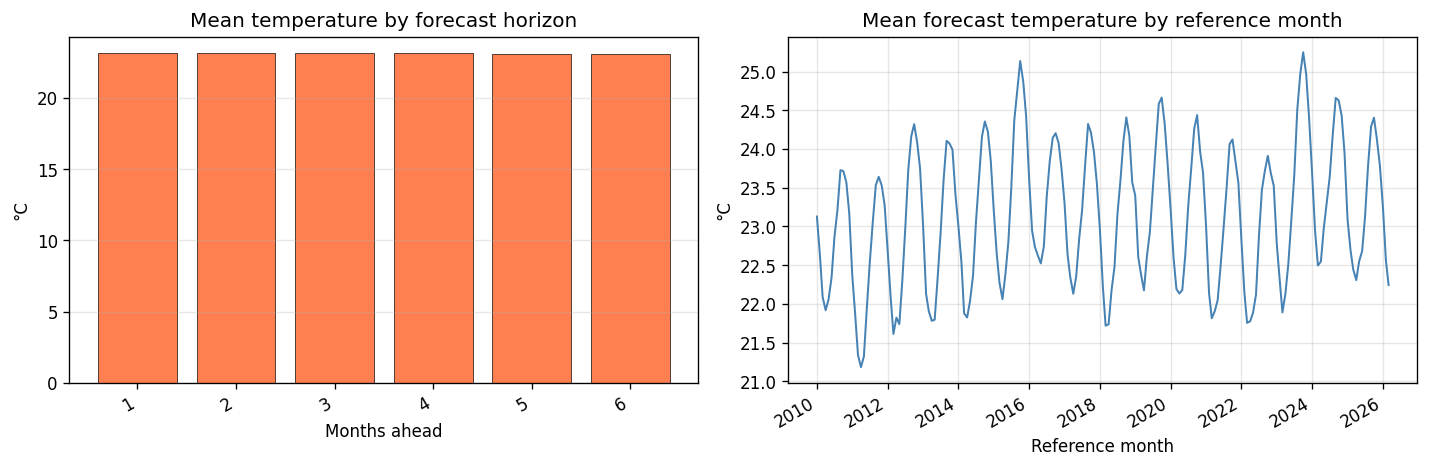
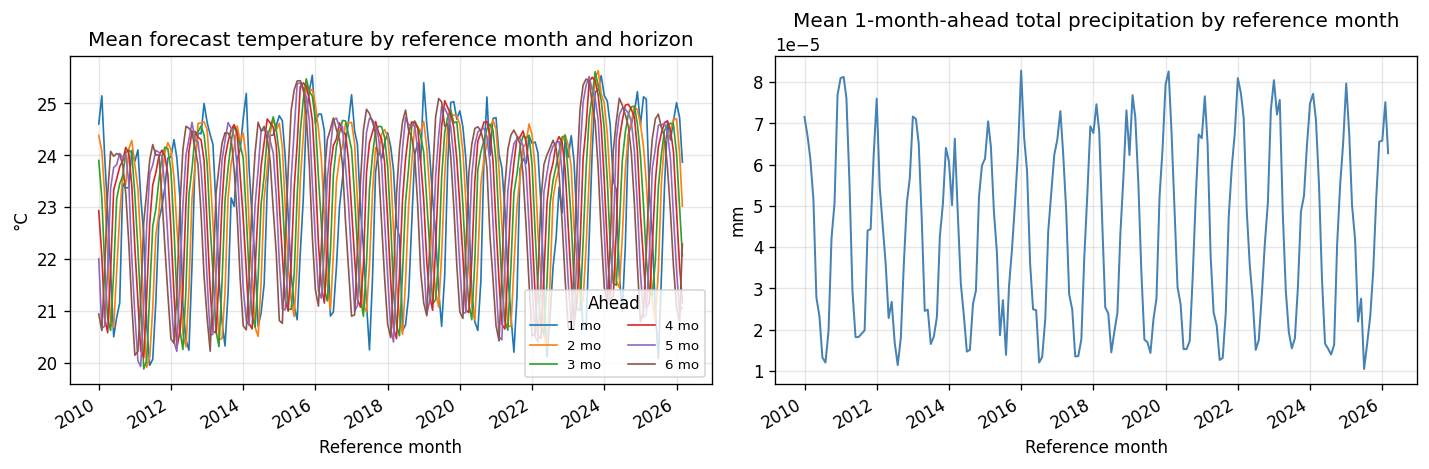
Improve pre-EDA report UX with expandable plots and column tooltips

diff --git a/pre_eda/index.html b/pre_eda/index.html
@@ -39,6 +39,10 @@
       </p>
     </footer>
 
+    <dialog id="plot-lightbox" class="plot-lightbox" aria-label="Expanded plot">
+      <img class="plot-lightbox__img" alt="" decoding="async" />
+    </dialog>
+
     <script src="https://cdn.jsdelivr.net/npm/marked@15.0.7/marked.min.js"></script>
     <script>
       (function () {
@@ -56,6 +60,79 @@
             breaks: false,
           });
           return marked.parse(markdown);
+        }
+
+        function enhanceColumnHovers(root) {
+          var triggers = root.querySelectorAll(".columns-more");
+          for (var i = 0; i < triggers.length; i++) {
+            var listItem = triggers[i].closest("li");
+            if (listItem) {
+              listItem.classList.add("columns-item");
+            }
+          }
+        }
+
+        function enhancePlotImages(root) {
+          var lightbox = document.getElementById("plot-lightbox");
+          if (!lightbox) {
+            return;
+          }
+          var lightboxImage = lightbox.querySelector(".plot-lightbox__img");
+          if (!lightboxImage) {
+            return;
+          }
+
+          function openLightbox(sourceImage) {
+            lightboxImage.src = sourceImage.currentSrc || sourceImage.src;
+            lightboxImage.alt = sourceImage.alt || "Expanded plot";
+            if (typeof lightbox.showModal === "function") {
+              lightbox.showModal();
+            }
+          }
+
+          function closeLightbox() {
+            if (!lightbox.open) {
+              return;
+            }
+            lightbox.close();
+            lightboxImage.removeAttribute("src");
+            lightboxImage.alt = "";
+          }
+
+          if (!lightbox.dataset.bound) {
+            lightbox.dataset.bound = "true";
+            lightbox.addEventListener("click", function (event) {
+              if (event.target === lightbox) {
+                closeLightbox();
+              }
+            });
+            lightboxImage.addEventListener("click", function () {
+              closeLightbox();
+            });
+            lightbox.addEventListener("close", function () {
+              lightboxImage.removeAttribute("src");
+              lightboxImage.alt = "";
+            });
+          }
+
+          var images = root.querySelectorAll("img");
+          for (var i = 0; i < images.length; i++) {
+            var image = images[i];
+            if (image.classList.contains("plot-lightbox__img")) {
+              continue;
+            }
+            image.tabIndex = 0;
+            image.addEventListener("click", function (event) {
+              openLightbox(event.currentTarget);
+            });
+            image.addEventListener("keydown", function (event) {
+              if (event.key !== "Enter" && event.key !== " ") {
+                return;
+              }
+              event.preventDefault();
+              openLightbox(event.currentTarget);
+            });
+          }
         }
 
         function showError(root, message) {
@@ -86,6 +163,8 @@
                 '<p class="page-nav"><a href="../index.html">← home</a></p>' +
                 renderMarkdown(rewriteImagePaths(markdown));
               root.innerHTML = html;
+              enhanceColumnHovers(root);
+              enhancePlotImages(root);
             })
             .catch(function (error) {
               showError(

diff --git a/styles.css b/styles.css
@@ -287,6 +287,47 @@ figure.project-preview {
   padding: 0.45rem;
   background-color: #fff;
   border: 1px solid #000;
+  cursor: zoom-in;
+}
+
+.plot-lightbox {
+  border: none;
+  padding: 1.25rem;
+  margin: 0;
+  width: 100%;
+  max-width: none;
+  height: 100%;
+  max-height: none;
+  background: transparent;
+}
+
+.plot-lightbox::backdrop {
+  background: color-mix(in srgb, var(--fg) 30%, transparent);
+}
+
+.plot-lightbox__img {
+  display: block;
+  width: 90vw;
+  max-width: 90vw;
+  max-height: 90vh;
+  height: auto;
+  margin: auto;
+  padding: 0.45rem;
+  object-fit: contain;
+  object-position: center;
+  background-color: #fff;
+  border: 1px solid #000;
+  cursor: zoom-out;
+}
+
+.plot-lightbox:not([open]) {
+  display: none;
+}
+
+.plot-lightbox[open] {
+  display: flex;
+  align-items: center;
+  justify-content: center;
 }
 
 .markdown-body .page-nav {
@@ -305,4 +346,70 @@ figure.project-preview {
 
 .markdown-body .markdown-error {
   color: #8b1a1a;
+}
+
+.markdown-body li.columns-item {
+  cursor: help;
+}
+
+.markdown-body .columns-more {
+  cursor: help;
+  color: var(--muted);
+  border-bottom: 1px dotted var(--border);
+}
+
+.markdown-body li.columns-item .columns-rest {
+  display: none;
+}
+
+.markdown-body li.columns-item:hover .columns-ellipsis,
+.markdown-body li.columns-item:focus-within .columns-ellipsis {
+  display: none;
+}
+
+.markdown-body li.columns-item:hover .columns-rest,
+.markdown-body li.columns-item:focus-within .columns-rest {
+  display: inline;
+}
+
+.markdown-body .plot-caption,
+.markdown-body em {
+  display: block;
+  margin: -0.5rem 0 1rem;
+  font-style: italic;
+  color: var(--muted);
+}
+
+.markdown-body .plot-tip {
+  position: relative;
+  display: inline;
+  cursor: help;
+  font-style: italic;
+  color: var(--fg);
+  border-bottom: 1px dotted var(--border);
+}
+
+.markdown-body .plot-tip__popup {
+  position: absolute;
+  z-index: 20;
+  left: 0;
+  bottom: calc(100% + 0.35rem);
+  display: none;
+  width: max-content;
+  max-width: min(18rem, 85vw);
+  padding: 0.45rem 0.55rem;
+  font-size: 0.75rem;
+  line-height: 1.4;
+  font-style: normal;
+  font-weight: 400;
+  color: var(--fg);
+  background: var(--bg);
+  border: 1px solid var(--border);
+  box-shadow: 0 2px 8px color-mix(in srgb, var(--fg) 12%, transparent);
+}
+
+.markdown-body .plot-tip:hover .plot-tip__popup,
+.markdown-body .plot-tip:focus .plot-tip__popup,
+.markdown-body .plot-tip:focus-within .plot-tip__popup {
+  display: block;
 }

diff --git a/pre_eda/PRE_EDA.md b/pre_eda/PRE_EDA.md
@@ -1,6 +1,6 @@
 # Pre-EDA — `data_imdc_2026`
 
-Auto-generated overview of IMDC 2026 datasets. Generated at **2026-05-30 00:16 UTC**.
+Auto-generated overview of IMDC 2026 datasets. Generated at **2026-05-30 00:31 UTC**.
 
 Plots were built with `uv run python scripts/generate_pre_eda.py`.
 
@@ -26,28 +26,34 @@ Plots were built with `uv run python scripts/generate_pre_eda.py`.
 
 Weekly probable dengue cases by municipality (SINAN / Infodengue).
 
-- **Columns:** `geocode`, `date`, `casos`, `epiweek`, `uf`, `macroregional_geocode`, `regional_geocode`, `uf_code`, … (+10 more)
+- **Columns:** `geocode`, `date`, `casos`, `epiweek`, `uf`, `macroregional_geocode`, `regional_geocode`, `uf_code`, <span class="columns-more" tabindex="0"><span class="columns-ellipsis">… (+10 more)</span><span class="columns-rest"><code>target_city</code>, <code>train_1</code>, <code>target_1</code>, <code>train_2</code>, <code>target_2</code>, <code>train_3</code>, <code>target_3</code>, <code>train_4</code>, <code>target_4</code>, <code>disease</code></span></span>
 - **Notes:** Includes train/target flags for four validation seasons and target_city marker.
 
 ![dengue.csv.gz](plots/dengue.png)
+
+*National weekly total of probable dengue cases, summed across all municipalities.*
 
 ### `chikungunya.csv.gz`
 
 Weekly probable chikungunya cases by municipality.
 
-- **Columns:** `geocode`, `date`, `casos`, `epiweek`, `uf`, `macroregional_geocode`, `regional_geocode`, `uf_code`, … (+10 more)
+- **Columns:** `geocode`, `date`, `casos`, `epiweek`, `uf`, `macroregional_geocode`, `regional_geocode`, `uf_code`, <span class="columns-more" tabindex="0"><span class="columns-ellipsis">… (+10 more)</span><span class="columns-rest"><code>target_city</code>, <code>train_1</code>, <code>target_1</code>, <code>train_2</code>, <code>target_2</code>, <code>train_3</code>, <code>target_3</code>, <code>train_4</code>, <code>target_4</code>, <code>disease</code></span></span>
 - **Notes:** Same schema as dengue; period starts in 2014.
 
 ![chikungunya.csv.gz](plots/chikungunya.png)
+
+*National weekly total of probable chikungunya cases, summed across all municipalities.*
 
 ### `climate.csv`
 
 ERA5 climate reanalysis aggregated to epidemiological weeks per municipality.
 
-- **Columns:** `date`, `epiweek`, `geocode`, `temp_min`, `temp_med`, `temp_max`, `precip_min`, `precip_med`, … (+9 more)
+- **Columns:** `date`, `epiweek`, `geocode`, `temp_min`, `temp_med`, `temp_max`, `precip_min`, `precip_med`, <span class="columns-more" tabindex="0"><span class="columns-ellipsis">… (+9 more)</span><span class="columns-rest"><code>precip_max</code>, <code>pressure_min</code>, <code>pressure_med</code>, <code>pressure_max</code>, <code>rel_humid_min</code>, <code>rel_humid_med</code>, <code>rel_humid_max</code>, <code>thermal_range</code>, <code>rainy_days</code></span></span>
 - **Notes:** Temperature, precipitation, humidity, pressure, thermal range, rainy days.
 
 ![climate.csv](plots/climate.png)
+
+*National weekly averages of mean temperature (°C), precipitation (mm/h), and relative humidity (%), aggregated from ERA5 reanalysis per municipality.*
 
 ### `forecasting_climate.csv`
 
@@ -58,6 +64,8 @@ Copernicus seasonal climate forecasts up to six months ahead.
 
 ![forecasting_climate.csv](plots/forecasting_climate.png)
 
+<p class="plot-caption">Left: <span class="plot-tip" tabindex="0">national mean<span class="plot-tip__popup">Average across all municipalities for each reference month and horizon.</span></span> forecast temperature by <span class="plot-tip" tabindex="0">reference month<span class="plot-tip__popup">The month the forecast was issued; shown on the x-axis of the left plot.</span></span>, one line per <span class="plot-tip" tabindex="0">forecast horizon<span class="plot-tip__popup">How many months ahead the forecast targets; legend labels 1 mo–6 mo.</span></span> (1–6 months ahead). Right: national mean 1-month-ahead total precipitation by reference month.</p>
+
 ### `datasus_population_2001_2025.csv`
 
 Municipality population estimates from DATASUS (2001–2025).
@@ -66,6 +74,8 @@ Municipality population estimates from DATASUS (2001–2025).
 - **Notes:** Long format: geocode × year.
 
 ![datasus_population_2001_2025.csv](plots/datasus_population_2001_2025.png)
+
+*National population total by year (millions), summed from DATASUS municipality estimates.*
 
 ### `environ_vars.csv`
 
@@ -76,6 +86,8 @@ Static environmental descriptors per municipality (Köppen climate, biome).
 
 ![environ_vars.csv](plots/environ_vars.png)
 
+*Left: top 10 Köppen climate types by municipality count. Right: biome distribution across municipalities.*
+
 ### `ocean_climate_oscillations.csv`
 
 Weekly ocean-atmosphere oscillation indices (ENSO, IOD, PDO).
@@ -85,14 +97,18 @@ Weekly ocean-atmosphere oscillation indices (ENSO, IOD, PDO).
 
 ![ocean_climate_oscillations.csv](plots/ocean_climate_oscillations.png)
 
+*Weekly ENSO, IOD, and PDO ocean–atmosphere oscillation indices; dashed line at zero.*
+
 ### `map_regional_health.csv`
 
 Lookup table linking municipalities to health regions and macroregions.
 
-- **Columns:** `macroregion_code`, `macroregion_name`, `uf_code`, `uf`, `uf_name`, `macroregional_geocode`, `macroregional_name`, `regional_geocode`, … (+3 more)
+- **Columns:** `macroregion_code`, `macroregion_name`, `uf_code`, `uf`, `uf_name`, `macroregional_geocode`, `macroregional_name`, `regional_geocode`, <span class="columns-more" tabindex="0"><span class="columns-ellipsis">… (+3 more)</span><span class="columns-rest"><code>regional_name</code>, <code>geocode</code>, <code>geocode_name</code></span></span>
 - **Notes:** Use with shapefiles for spatial aggregation.
 
 ![map_regional_health.csv](plots/map_regional_health.png)
+
+*Number of municipalities per Brazilian state (UF) in the health-region lookup table.*
 
 ### `shape_muni.gpkg`
 
@@ -103,6 +119,8 @@ GeoPackage with municipality polygons and names.
 
 ![shape_muni.gpkg](plots/shape_muni.png)
 
+*Map of IBGE municipality polygon boundaries across Brazil.*
+
 ### `shape_regional_health.gpkg`
 
 GeoPackage with regional health division polygons.
@@ -112,6 +130,8 @@ GeoPackage with regional health division polygons.
 
 ![shape_regional_health.gpkg](plots/shape_regional_health.png)
 
+*Map of DATASUS regional health division polygons.*
+
 ### `shape_macroregional_health.gpkg`
 
 GeoPackage with macroregional health division polygons.
@@ -120,6 +140,8 @@ GeoPackage with macroregional health division polygons.
 - **Notes:** Matches macroregional_geocode in case tables.
 
 ![shape_macroregional_health.gpkg](plots/shape_macroregional_health.png)
+
+*Map of DATASUS macroregional health division polygons.*
 
 ## Compressed copies
 
